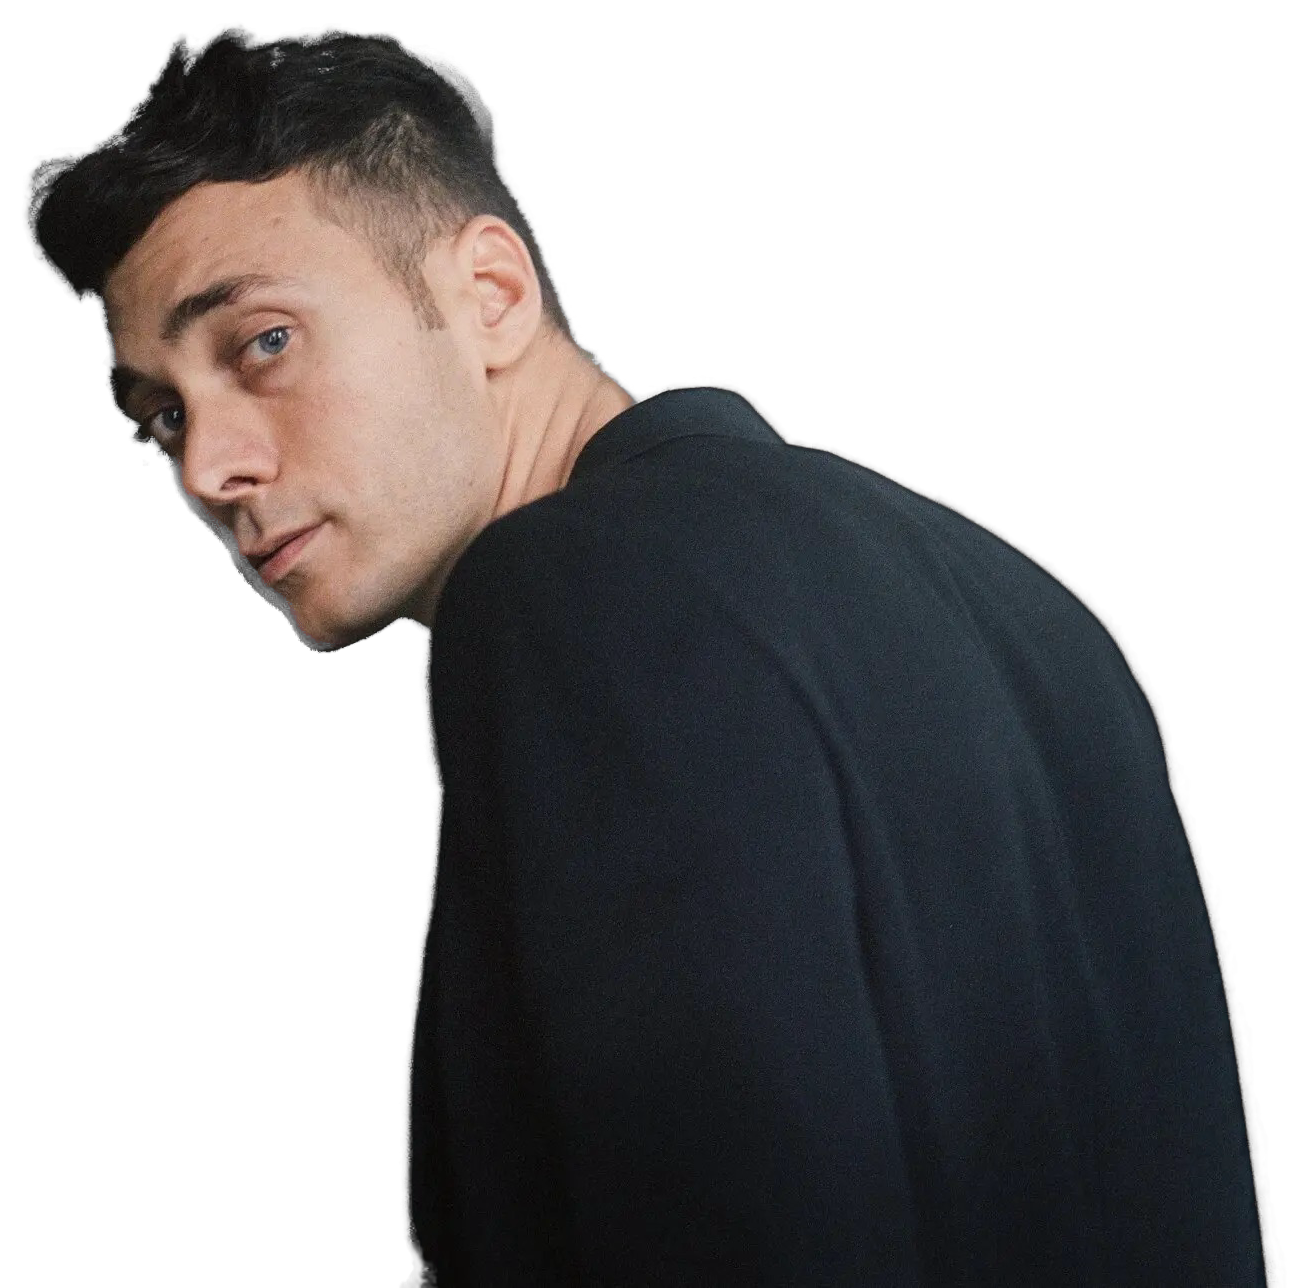
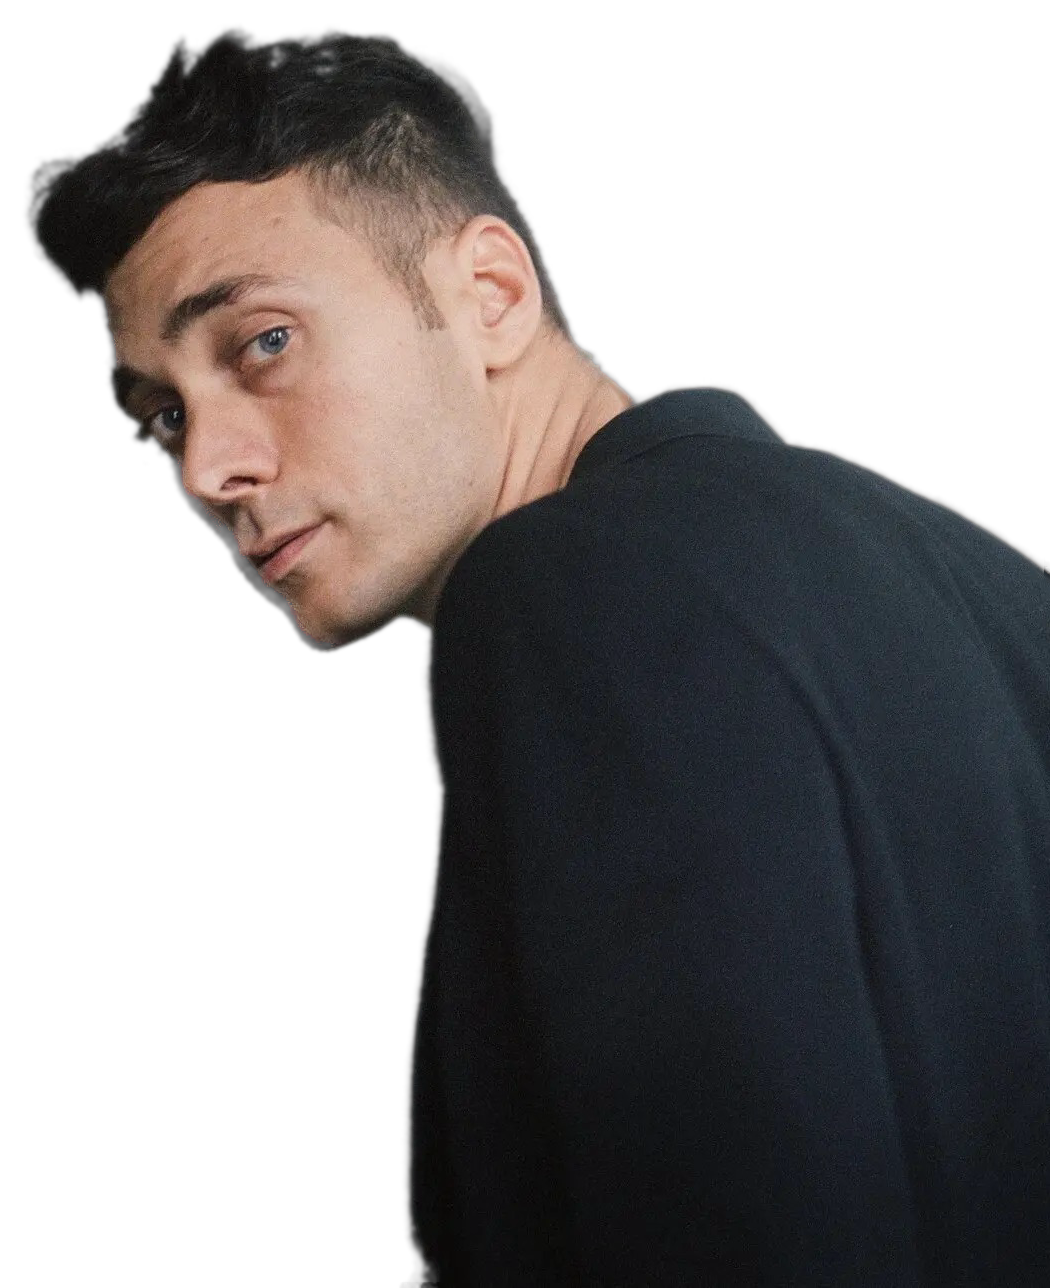
feat(archives): narrow hero figure, smooth cutout edges, tighten description
- Crop the jacket's far-right mass; the crop edge now bleeds off the
  viewport's right edge (object-right-bottom), matching the reference's
  narrower figure column
- Feather the silhouette (erode + gaussian) for smoother edges, keeping
  the two bleed edges (bottom, right) hard so they stay flush
- Condense the archive description to two sentences

diff --git a/app/lib/archives.js b/app/lib/archives.js
@@ -34,7 +34,7 @@ export const ARCHIVES = [
     // /editorial/<slug>. No Slimane entry exists yet.
     editorialSlug: null,
     description:
-      "Hedi Slimane reshaped modern menswear at Dior Homme (2000–2007), defining a radically slim, youthful silhouette that became one of the most influential aesthetics of the 2000s. He later revisited and brought his signature visuals to Saint Laurent during the early 2010s, merging sharp tailoring with rock and youth culture. It is a testament to Slimane's influence that the silhouettes he propelled into the mainstream have found renewed relevance nearly two decades later with the \"Hedi Boy\" movement.",
+      "Hedi Slimane reshaped modern menswear at Dior Homme (2000–2007), defining the radically slim silhouette that became one of the most influential aesthetics of the 2000s. He revisited that vision at Saint Laurent in the early 2010s, fusing sharp tailoring with rock and youth culture — a legacy renewed two decades later by the \"Hedi Boy\" movement.",
     rules: [
       // Attribution REQUIRED: 2000–07 Dior stock is dominated by Galliano
       // womenswear (64 rows carry the era signal, ~6 carry homme/Slimane).

diff --git a/app/archives/[slug]/page.js b/app/archives/[slug]/page.js
@@ -111,7 +111,7 @@ export default async function ArchivePage({ params }) {
               fill
               priority
               sizes="(max-width: 768px) 100vw, 45vw"
-              className="object-contain object-bottom pt-8 md:pt-10"
+              className="object-contain object-right-bottom pt-8 md:pt-10"
             />
           </div>
         </div>
